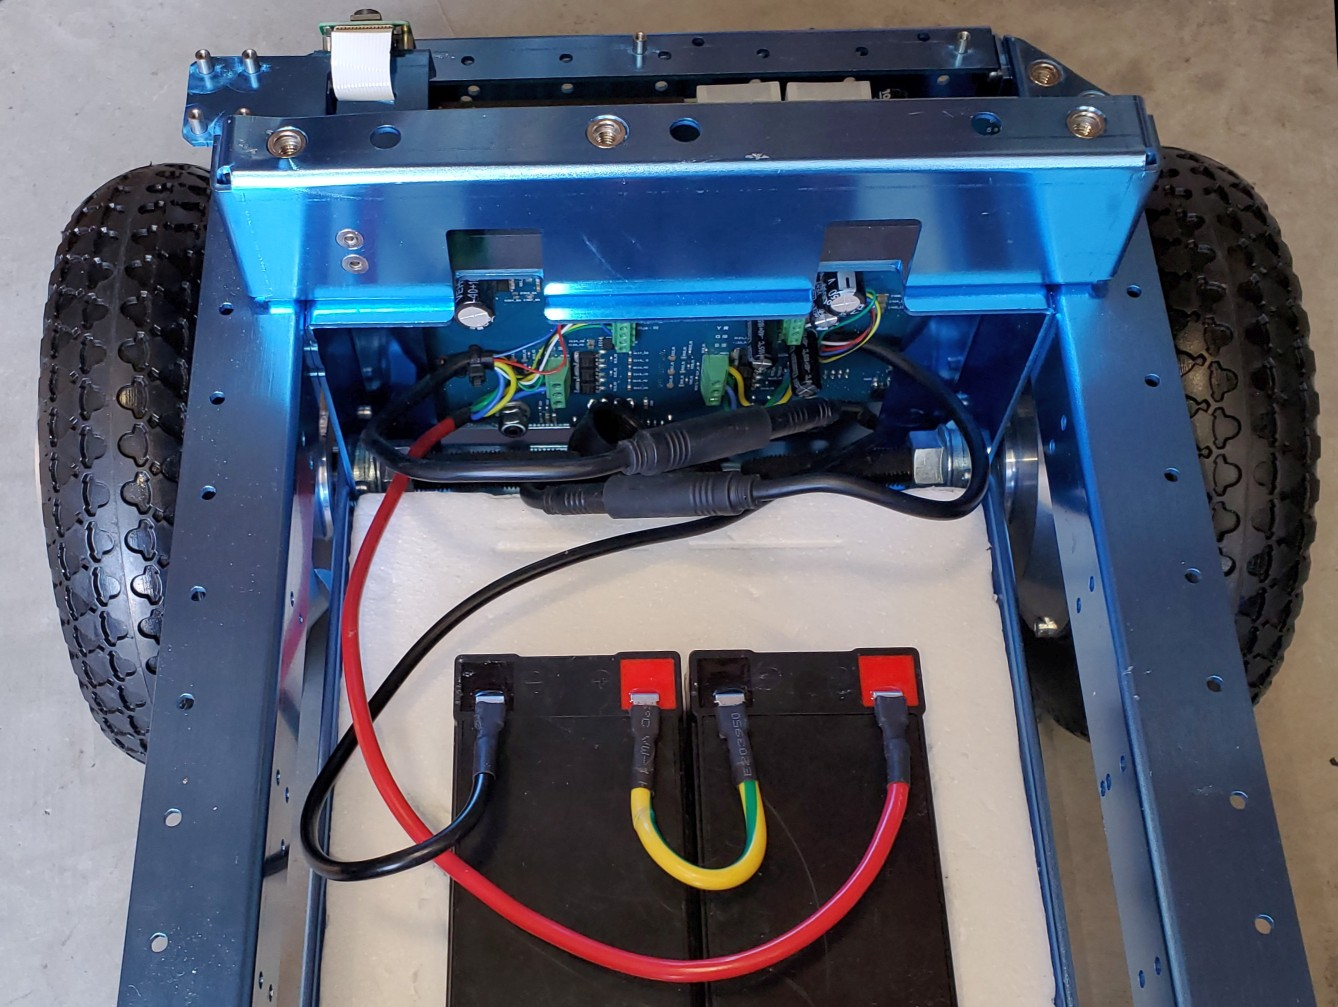
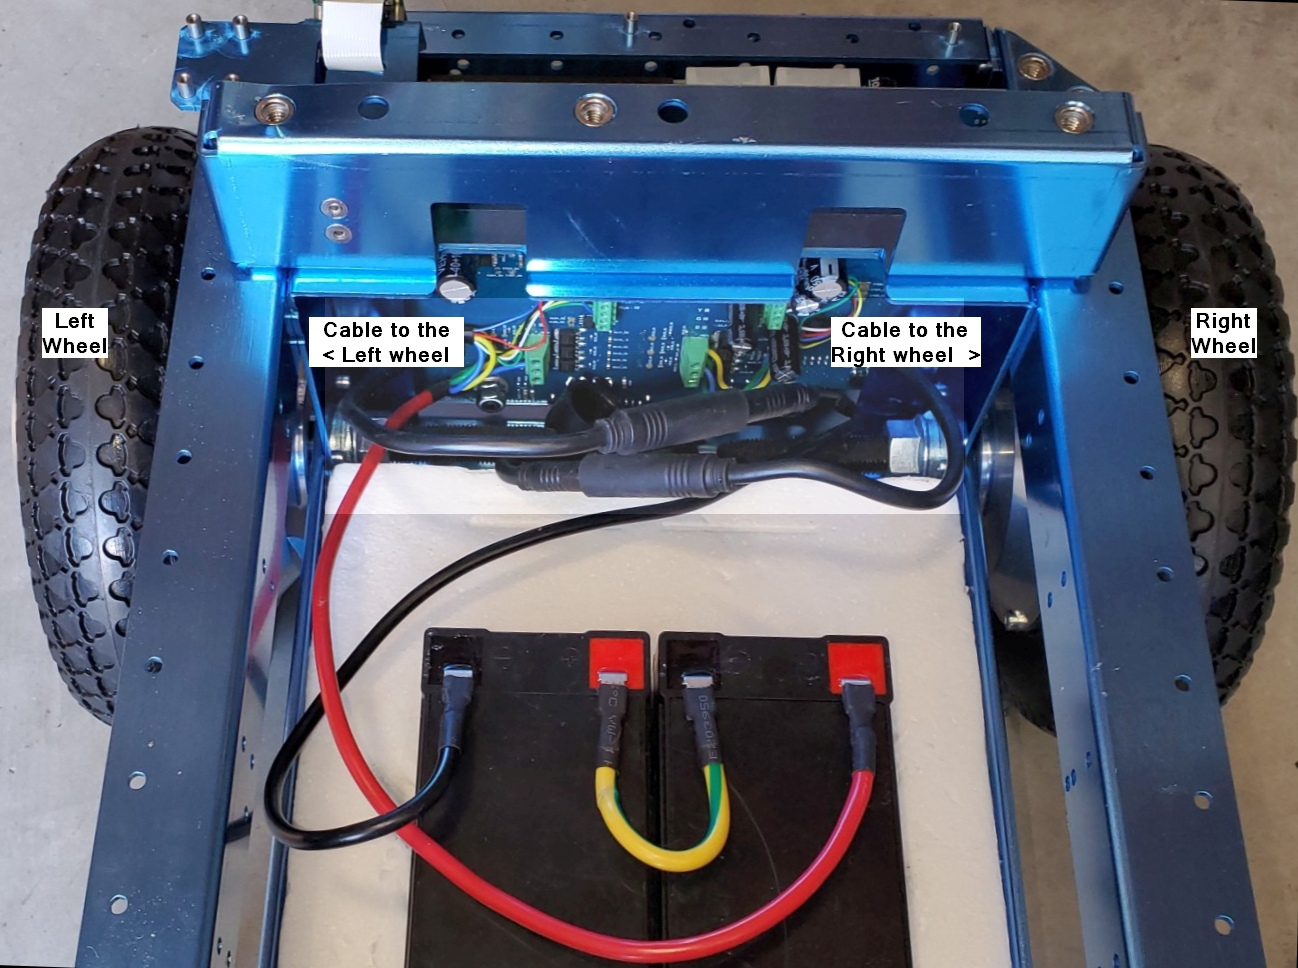
Add information on wheel cable connections

diff --git a/quick_start/unboxing/unboxing.md b/quick_start/unboxing/unboxing.md
@@ -84,13 +84,18 @@ The charging port is between the two switches.
 **The next step will be to install the batteries.   At this time push both of the switches IN which will turn all power off as you connect the batteries.**
 
 
-#### Main Power Battery Installation
+#### Main Power Battery And Wheel Cables Installation
 
 ![](MagniBatteryInstallation.jpg)
 
 Use the thick styrofoam cutout piece that came with your Magni in the bed of the chassis. It holds the most common battery types in place even if the robot bumps things or is moved around.  
 
-The picture above shows proper cable connections for the batteries.  The red power cable goes to positive of battery on the right.  The yellow cable connects the positive of the left battery to the negative of the battery shown on the right. The black cable goes from the negative terminal of the battery on the left to ground on the robot.
+The picture above shows proper cable connections for the batteries and wheels.  
+
+The wheels should be properly connected from the factory.
+As seen in this picture notice that the cable attached to the two green terminal strips seen on the right of the back of the main MCB board goes to the right wheel.   The cable that comes from the two green terminal strips seen on the left of the back of the MCB board goes to the left wheel.   
+
+For the main power cables, the red power cable goes to positive of battery on the right.  The yellow cable connects the positive of the left battery to the negative of the battery shown on the right. The black cable goes from the negative terminal of the battery on the left to ground on the robot.
 
 There are cables for both spade type and screw type battery terminals. A 24 volt battery charger is included in the package (Photo not available). The recommended batteries are of the type specified by UB12xxx where xxx specifies Amp Hours. Commonly UB1250, UB1290, or UB12150 are used. Since it is unknown what size and shape the batteries will be it is the user’s responsibility to see they are secured in the chassis by the use of straps or packing material.
 
